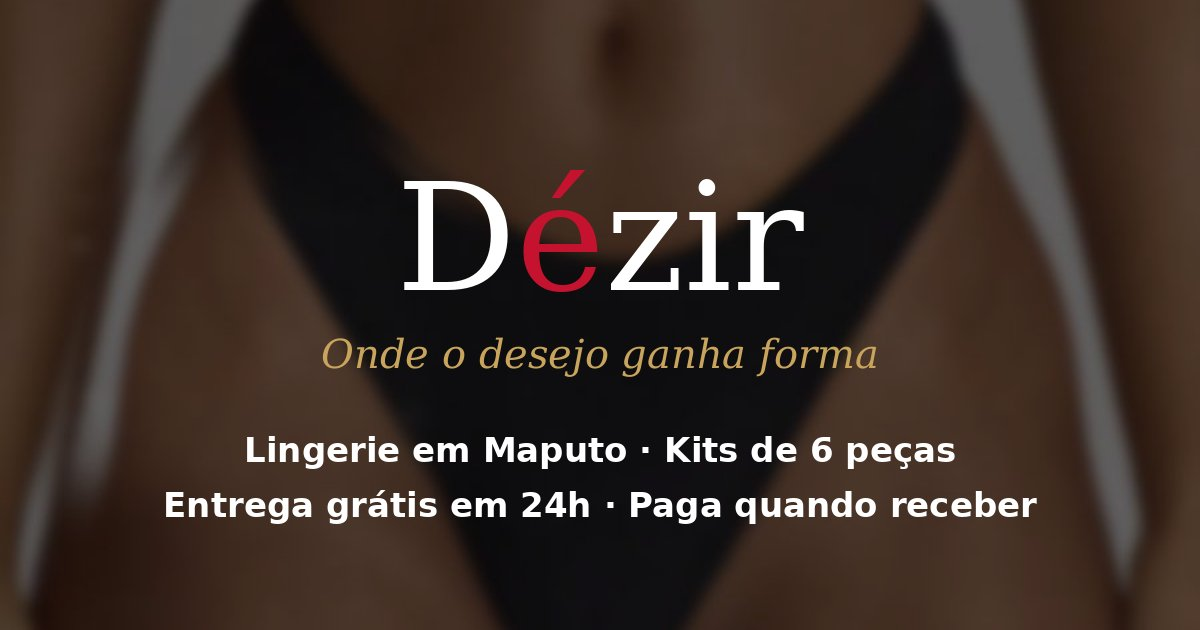
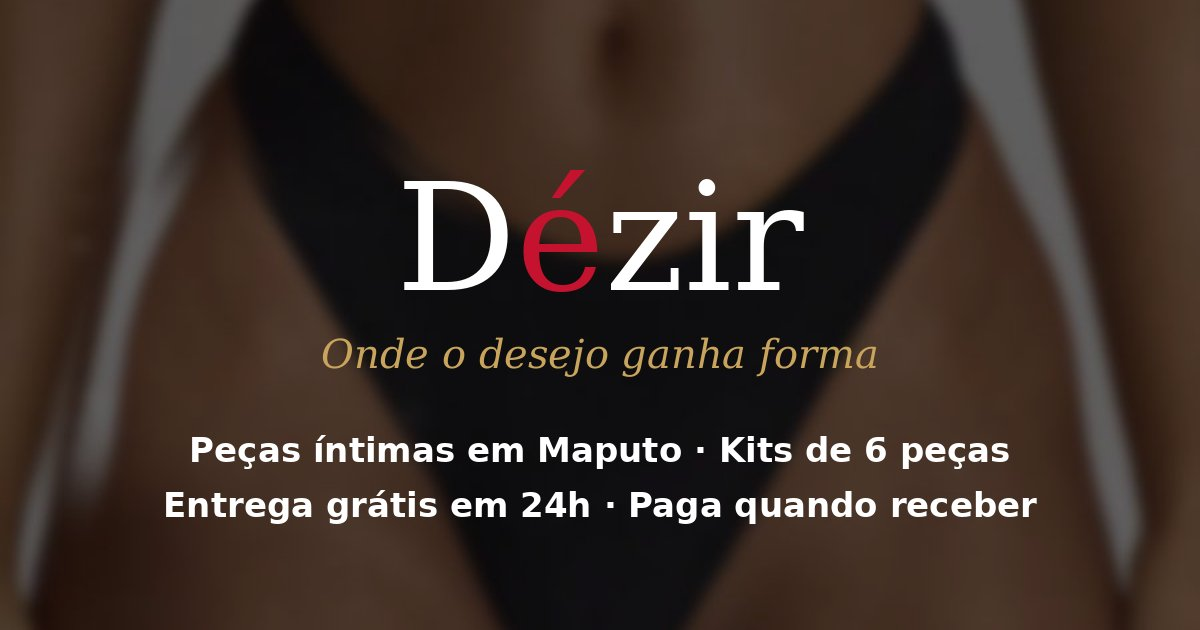
Troca 'lingerie' por 'peças íntimas'
Claude-Session: https://claude.ai/code/session_01158HqcScQpHXWsf6aup7ki

Changed region(s): [[0.1542, 0.6937, 0.8633, 0.754]]

diff --git a/index.html b/index.html
@@ -4,27 +4,27 @@
 <meta charset="utf-8">
 <meta name="viewport" content="width=device-width, initial-scale=1">
 <!-- SEO:INICIO -->
-<title>Dézir — Lingerie em Maputo | Kits de 6 peças com entrega grátis</title>
-<meta name="description" content="Lingerie feminina em Maputo e Matola: boxers e fios em renda e algodão, kits de 6 peças a partir de 700 MT. Entrega grátis em menos de 24h e paga só quando receber.">
-<meta name="keywords" content="lingerie Maputo, calcinhas Maputo, boxer de renda, fio dental, lingerie Matola, roupa íntima Moçambique, Dézir">
+<title>Dézir — Peças íntimas em Maputo | Kits de 6 com entrega grátis</title>
+<meta name="description" content="Peças íntimas femininas em Maputo e Matola: boxers e fios em renda e algodão, kits de 6 peças a partir de 700 MT. Entrega grátis em menos de 24h e paga só quando receber.">
+<meta name="keywords" content="peças íntimas Maputo, calcinhas Maputo, boxer de renda, fio dental, peças íntimas Matola, roupa íntima Moçambique, Dézir">
 <link rel="canonical" href="https://dezir-mz.github.io/">
 <meta name="robots" content="index, follow">
 <meta name="theme-color" content="#0d0b0b">
 <meta property="og:type" content="website">
 <meta property="og:locale" content="pt_MZ">
 <meta property="og:site_name" content="Dézir">
-<meta property="og:title" content="Dézir — Lingerie em Maputo | Kits de 6 peças com entrega grátis">
-<meta property="og:description" content="Lingerie feminina em Maputo e Matola: boxers e fios em renda e algodão, kits de 6 peças a partir de 700 MT. Entrega grátis em menos de 24h e paga só quando receber.">
+<meta property="og:title" content="Dézir — Peças íntimas em Maputo | Kits de 6 com entrega grátis">
+<meta property="og:description" content="Peças íntimas femininas em Maputo e Matola: boxers e fios em renda e algodão, kits de 6 peças a partir de 700 MT. Entrega grátis em menos de 24h e paga só quando receber.">
 <meta property="og:url" content="https://dezir-mz.github.io/">
 <meta property="og:image" content="https://dezir-mz.github.io/og.jpg">
 <meta property="og:image:width" content="1200">
 <meta property="og:image:height" content="630">
-<meta property="og:image:alt" content="Dézir — Onde o desejo ganha forma. Lingerie em Maputo.">
+<meta property="og:image:alt" content="Dézir — Onde o desejo ganha forma. Peças íntimas em Maputo.">
 <meta name="twitter:card" content="summary_large_image">
-<meta name="twitter:title" content="Dézir — Lingerie em Maputo | Kits de 6 peças com entrega grátis">
-<meta name="twitter:description" content="Lingerie feminina em Maputo e Matola: boxers e fios em renda e algodão, kits de 6 peças a partir de 700 MT. Entrega grátis em menos de 24h e paga só quando receber.">
+<meta name="twitter:title" content="Dézir — Peças íntimas em Maputo | Kits de 6 com entrega grátis">
+<meta name="twitter:description" content="Peças íntimas femininas em Maputo e Matola: boxers e fios em renda e algodão, kits de 6 peças a partir de 700 MT. Entrega grátis em menos de 24h e paga só quando receber.">
 <meta name="twitter:image" content="https://dezir-mz.github.io/og.jpg">
-<script type="application/ld+json">{"@context": "https://schema.org", "@graph": [{"@type": "ClothingStore", "@id": "https://dezir-mz.github.io/#loja", "name": "Dézir", "url": "https://dezir-mz.github.io/", "image": "https://dezir-mz.github.io/og.jpg", "slogan": "Onde o desejo ganha forma", "description": "Lingerie feminina em Maputo e Matola: boxers e fios em renda e algodão, kits de 6 peças a partir de 700 MT. Entrega grátis em menos de 24h e paga só quando receber.", "telephone": "+258 87 987 1228", "address": {"@type": "PostalAddress", "addressLocality": "Maputo", "addressCountry": "MZ"}, "areaServed": ["Maputo", "Matola", "Moçambique"], "priceRange": "700–800 MT", "paymentAccepted": "Dinheiro na entrega"}, {"@type": "ItemList", "name": "Peças disponíveis para entrega imediata", "itemListElement": [{"@type": "ListItem", "position": 1, "item": {"@type": "Product", "name": "Kit 6 Boxer Renda Desejo", "description": "Renda floral que veste como uma segunda pele: cintura recortada, toque macio e transparência na medida certa. Confortável no dia a dia, irresistível à noite.", "image": ["https://dezir-mz.github.io/fotos/boxer-2.jpg", "https://dezir-mz.github.io/fotos/boxer-1.jpg"], "brand": {"@type": "Brand", "name": "Dézir"}, "size": ["S", "M", "L"], "offers": {"@type": "Offer", "price": 800, "priceCurrency": "MZN", "availability": "https://schema.org/InStock", "url": "https://dezir-mz.github.io/", "seller": {"@id": "https://dezir-mz.github.io/#loja"}}}}, {"@type": "ListItem", "position": 2, "item": {"@type": "Product", "name": "Kit 6 Fio Algodão Canelado", "description": "Fio dental em algodão canelado, macio e respirável. Confortável e saudável para a sua florzinha, sem marcar a roupa.", "image": ["https://dezir-mz.github.io/fotos/fio-0.jpg", "https://dezir-mz.github.io/fotos/fio-1.jpg", "https://dezir-mz.github.io/fotos/fio-2.jpg", "https://dezir-mz.github.io/fotos/fio-3.jpg", "https://dezir-mz.github.io/fotos/fio-4.jpg"], "brand": {"@type": "Brand", "name": "Dézir"}, "size": ["S", "M", "L"], "offers": {"@type": "Offer", "price": 700, "priceCurrency": "MZN", "availability": "https://schema.org/InStock", "url": "https://dezir-mz.github.io/", "seller": {"@id": "https://dezir-mz.github.io/#loja"}}}}, {"@type": "ListItem", "position": 3, "item": {"@type": "Product", "name": "Kit 6 Fio Renda Laço", "description": "Fio dental em renda floral com laçinhos de cetim nas laterais. Delicado, leve e feito para se sentir bonita em cada detalhe.", "image": ["https://dezir-mz.github.io/fotos/renda-1.jpg", "https://dezir-mz.github.io/fotos/renda-2.jpg", "https://dezir-mz.github.io/fotos/renda-3.jpg"], "brand": {"@type": "Brand", "name": "Dézir"}, "size": ["M"], "offers": {"@type": "Offer", "price": 700, "priceCurrency": "MZN", "availability": "https://schema.org/InStock", "url": "https://dezir-mz.github.io/", "seller": {"@id": "https://dezir-mz.github.io/#loja"}}}}, {"@type": "ListItem", "position": 4, "item": {"@type": "Product", "name": "Kit 6 Fio Renda Ajustável", "description": "Fio dental em renda floral com alças reguláveis dos dois lados: ajusta-se ao seu corpo para um caimento perfeito. Sensual, confortável e sem apertar.", "image": ["https://dezir-mz.github.io/fotos/ajuste-1.jpg", "https://dezir-mz.github.io/fotos/ajuste-3.jpg", "https://dezir-mz.github.io/fotos/ajuste-4.jpg"], "brand": {"@type": "Brand", "name": "Dézir"}, "size": ["S", "M", "L", "XL"], "offers": {"@type": "Offer", "price": 700, "priceCurrency": "MZN", "availability": "https://schema.org/InStock", "url": "https://dezir-mz.github.io/", "seller": {"@id": "https://dezir-mz.github.io/#loja"}}}}, {"@type": "ListItem", "position": 5, "item": {"@type": "Product", "name": "Kit 6 Calcinha Sem Costura Ajustável", "description": "Tecido liso e acetinado, sem costuras, que desaparece debaixo da roupa. Fechos laterais com 2 posições para ajustar à sua medida. Conforto total, zero marcas.", "image": ["https://dezir-mz.github.io/fotos/semcostura-1.jpg", "https://dezir-mz.github.io/fotos/semcostura-2.jpg", "https://dezir-mz.github.io/fotos/semcostura-3.jpg", "https://dezir-mz.github.io/fotos/semcostura-4.jpg"], "brand": {"@type": "Brand", "name": "Dézir"}, "size": ["S", "M", "L", "XL"], "offers": {"@type": "Offer", "price": 750, "priceCurrency": "MZN", "availability": "https://schema.org/InStock", "url": "https://dezir-mz.github.io/", "seller": {"@id": "https://dezir-mz.github.io/#loja"}}}}]}]}</script>
+<script type="application/ld+json">{"@context": "https://schema.org", "@graph": [{"@type": "ClothingStore", "@id": "https://dezir-mz.github.io/#loja", "name": "Dézir", "url": "https://dezir-mz.github.io/", "image": "https://dezir-mz.github.io/og.jpg", "slogan": "Onde o desejo ganha forma", "description": "Peças íntimas femininas em Maputo e Matola: boxers e fios em renda e algodão, kits de 6 peças a partir de 700 MT. Entrega grátis em menos de 24h e paga só quando receber.", "telephone": "+258 87 987 1228", "address": {"@type": "PostalAddress", "addressLocality": "Maputo", "addressCountry": "MZ"}, "areaServed": ["Maputo", "Matola", "Moçambique"], "priceRange": "700–800 MT", "paymentAccepted": "Dinheiro na entrega"}, {"@type": "ItemList", "name": "Peças disponíveis para entrega imediata", "itemListElement": [{"@type": "ListItem", "position": 1, "item": {"@type": "Product", "name": "Kit 6 Boxer Renda Desejo", "description": "Renda floral que veste como uma segunda pele: cintura recortada, toque macio e transparência na medida certa. Confortável no dia a dia, irresistível à noite.", "image": ["https://dezir-mz.github.io/fotos/boxer-2.jpg", "https://dezir-mz.github.io/fotos/boxer-1.jpg"], "brand": {"@type": "Brand", "name": "Dézir"}, "size": ["S", "M", "L"], "offers": {"@type": "Offer", "price": 800, "priceCurrency": "MZN", "availability": "https://schema.org/InStock", "url": "https://dezir-mz.github.io/", "seller": {"@id": "https://dezir-mz.github.io/#loja"}}}}, {"@type": "ListItem", "position": 2, "item": {"@type": "Product", "name": "Kit 6 Fio Algodão Canelado", "description": "Fio dental em algodão canelado, macio e respirável. Confortável e saudável para a sua florzinha, sem marcar a roupa.", "image": ["https://dezir-mz.github.io/fotos/fio-0.jpg", "https://dezir-mz.github.io/fotos/fio-1.jpg", "https://dezir-mz.github.io/fotos/fio-2.jpg", "https://dezir-mz.github.io/fotos/fio-3.jpg", "https://dezir-mz.github.io/fotos/fio-4.jpg"], "brand": {"@type": "Brand", "name": "Dézir"}, "size": ["S", "M", "L"], "offers": {"@type": "Offer", "price": 700, "priceCurrency": "MZN", "availability": "https://schema.org/InStock", "url": "https://dezir-mz.github.io/", "seller": {"@id": "https://dezir-mz.github.io/#loja"}}}}, {"@type": "ListItem", "position": 3, "item": {"@type": "Product", "name": "Kit 6 Fio Renda Laço", "description": "Fio dental em renda floral com laçinhos de cetim nas laterais. Delicado, leve e feito para se sentir bonita em cada detalhe.", "image": ["https://dezir-mz.github.io/fotos/renda-1.jpg", "https://dezir-mz.github.io/fotos/renda-2.jpg", "https://dezir-mz.github.io/fotos/renda-3.jpg"], "brand": {"@type": "Brand", "name": "Dézir"}, "size": ["M"], "offers": {"@type": "Offer", "price": 700, "priceCurrency": "MZN", "availability": "https://schema.org/InStock", "url": "https://dezir-mz.github.io/", "seller": {"@id": "https://dezir-mz.github.io/#loja"}}}}, {"@type": "ListItem", "position": 4, "item": {"@type": "Product", "name": "Kit 6 Fio Renda Ajustável", "description": "Fio dental em renda floral com alças reguláveis dos dois lados: ajusta-se ao seu corpo para um caimento perfeito. Sensual, confortável e sem apertar.", "image": ["https://dezir-mz.github.io/fotos/ajuste-1.jpg", "https://dezir-mz.github.io/fotos/ajuste-3.jpg", "https://dezir-mz.github.io/fotos/ajuste-4.jpg"], "brand": {"@type": "Brand", "name": "Dézir"}, "size": ["S", "M", "L", "XL"], "offers": {"@type": "Offer", "price": 700, "priceCurrency": "MZN", "availability": "https://schema.org/InStock", "url": "https://dezir-mz.github.io/", "seller": {"@id": "https://dezir-mz.github.io/#loja"}}}}, {"@type": "ListItem", "position": 5, "item": {"@type": "Product", "name": "Kit 6 Calcinha Sem Costura Ajustável", "description": "Tecido liso e acetinado, sem costuras, que desaparece debaixo da roupa. Fechos laterais com 2 posições para ajustar à sua medida. Conforto total, zero marcas.", "image": ["https://dezir-mz.github.io/fotos/semcostura-1.jpg", "https://dezir-mz.github.io/fotos/semcostura-2.jpg", "https://dezir-mz.github.io/fotos/semcostura-3.jpg", "https://dezir-mz.github.io/fotos/semcostura-4.jpg"], "brand": {"@type": "Brand", "name": "Dézir"}, "size": ["S", "M", "L", "XL"], "offers": {"@type": "Offer", "price": 750, "priceCurrency": "MZN", "availability": "https://schema.org/InStock", "url": "https://dezir-mz.github.io/", "seller": {"@id": "https://dezir-mz.github.io/#loja"}}}}]}]}</script>
 <!-- SEO:FIM -->
 <link rel="preconnect" href="https://fonts.googleapis.com">
 <link href="https://fonts.googleapis.com/css2?family=Cormorant+Garamond:ital,wght@0,500;1,500&display=swap" rel="stylesheet">
@@ -223,7 +223,7 @@ footer b{font-family:"Cormorant Garamond",Georgia,serif;color:#fff;font-weight:5
 
 <section class="band" id="pecas"><div class="wrap">
   <h2>Disponível agora</h2>
-  <div class="grid" id="track"><article class="card"><div class="pic cover"><img src="fotos/boxer-2.jpg" alt="Kit 6 Boxer Renda Desejo — Dézir lingerie Maputo" loading="lazy"></div><h3>Boxer Renda Desejo</h3><span class="price">800 MT</span><small style="color:var(--gold);font-weight:600">Kit de 6 peças · cores variadas</small><p class="desc">Renda floral que veste como uma segunda pele: cintura recortada, toque macio e transparência na medida certa. Confortável no dia a dia, irresistível à noite.</p><small>Tamanhos: S · M · L</small></article><article class="card"><div class="pic cover"><img src="fotos/fio-0.jpg" alt="Kit 6 Fio Algodão Canelado — Dézir lingerie Maputo" loading="lazy"></div><h3>Fio Algodão Canelado</h3><span class="price">700 MT</span><small style="color:var(--gold);font-weight:600">Kit de 6 peças · cores variadas</small><p class="desc">Fio dental em algodão canelado, macio e respirável. Confortável e saudável para a sua florzinha, sem marcar a roupa.</p><small>Tamanhos: S · M · L</small></article><article class="card"><div class="pic cover"><img src="fotos/renda-1.jpg" alt="Kit 6 Fio Renda Laço — Dézir lingerie Maputo" loading="lazy"></div><h3>Fio Renda Laço</h3><span class="price">700 MT</span><small style="color:var(--gold);font-weight:600">Kit de 6 peças · cores variadas</small><p class="desc">Fio dental em renda floral com laçinhos de cetim nas laterais. Delicado, leve e feito para se sentir bonita em cada detalhe.</p><small>Tamanhos: M</small></article><article class="card"><div class="pic cover"><img src="fotos/ajuste-1.jpg" alt="Kit 6 Fio Renda Ajustável — Dézir lingerie Maputo" loading="lazy"></div><h3>Fio Renda Ajustável</h3><span class="price">700 MT</span><small style="color:var(--gold);font-weight:600">Kit de 6 peças · cores variadas</small><p class="desc">Fio dental em renda floral com alças reguláveis dos dois lados: ajusta-se ao seu corpo para um caimento perfeito. Sensual, confortável e sem apertar.</p><small>Tamanhos: S · M · L · XL</small></article><article class="card"><div class="pic cover"><img src="fotos/semcostura-1.jpg" alt="Kit 6 Calcinha Sem Costura Ajustável — Dézir lingerie Maputo" loading="lazy"></div><h3>Calcinha Sem Costura Ajustável</h3><span class="price">750 MT</span><small style="color:var(--gold);font-weight:600">Kit de 6 peças · cores variadas</small><p class="desc">Tecido liso e acetinado, sem costuras, que desaparece debaixo da roupa. Fechos laterais com 2 posições para ajustar à sua medida. Conforto total, zero marcas.</p><small>Tamanhos: S · M · L · XL</small></article></div><!--/track-->
+  <div class="grid" id="track"><article class="card"><div class="pic cover"><img src="fotos/boxer-2.jpg" alt="Kit 6 Boxer Renda Desejo — Dézir peças íntimas Maputo" loading="lazy"></div><h3>Boxer Renda Desejo</h3><span class="price">800 MT</span><small style="color:var(--gold);font-weight:600">Kit de 6 peças · cores variadas</small><p class="desc">Renda floral que veste como uma segunda pele: cintura recortada, toque macio e transparência na medida certa. Confortável no dia a dia, irresistível à noite.</p><small>Tamanhos: S · M · L</small></article><article class="card"><div class="pic cover"><img src="fotos/fio-0.jpg" alt="Kit 6 Fio Algodão Canelado — Dézir peças íntimas Maputo" loading="lazy"></div><h3>Fio Algodão Canelado</h3><span class="price">700 MT</span><small style="color:var(--gold);font-weight:600">Kit de 6 peças · cores variadas</small><p class="desc">Fio dental em algodão canelado, macio e respirável. Confortável e saudável para a sua florzinha, sem marcar a roupa.</p><small>Tamanhos: S · M · L</small></article><article class="card"><div class="pic cover"><img src="fotos/renda-1.jpg" alt="Kit 6 Fio Renda Laço — Dézir peças íntimas Maputo" loading="lazy"></div><h3>Fio Renda Laço</h3><span class="price">700 MT</span><small style="color:var(--gold);font-weight:600">Kit de 6 peças · cores variadas</small><p class="desc">Fio dental em renda floral com laçinhos de cetim nas laterais. Delicado, leve e feito para se sentir bonita em cada detalhe.</p><small>Tamanhos: M</small></article><article class="card"><div class="pic cover"><img src="fotos/ajuste-1.jpg" alt="Kit 6 Fio Renda Ajustável — Dézir peças íntimas Maputo" loading="lazy"></div><h3>Fio Renda Ajustável</h3><span class="price">700 MT</span><small style="color:var(--gold);font-weight:600">Kit de 6 peças · cores variadas</small><p class="desc">Fio dental em renda floral com alças reguláveis dos dois lados: ajusta-se ao seu corpo para um caimento perfeito. Sensual, confortável e sem apertar.</p><small>Tamanhos: S · M · L · XL</small></article><article class="card"><div class="pic cover"><img src="fotos/semcostura-1.jpg" alt="Kit 6 Calcinha Sem Costura Ajustável — Dézir peças íntimas Maputo" loading="lazy"></div><h3>Calcinha Sem Costura Ajustável</h3><span class="price">750 MT</span><small style="color:var(--gold);font-weight:600">Kit de 6 peças · cores variadas</small><p class="desc">Tecido liso e acetinado, sem costuras, que desaparece debaixo da roupa. Fechos laterais com 2 posições para ajustar à sua medida. Conforto total, zero marcas.</p><small>Tamanhos: S · M · L · XL</small></article></div><!--/track-->
   <p class="msg" id="msg">A carregar as peças…</p>
 </div></section>
 
@@ -251,7 +251,7 @@ footer b{font-family:"Cormorant Garamond",Georgia,serif;color:#fff;font-weight:5
 
 <a class="fab" id="fab" href="#pedido" aria-label="Concluir pedido"><span class="fabtxt"><b>Concluir pedido</b><small id="fabT"></small></span><span class="ball"><svg viewBox="0 0 24 24" width="28" height="28" fill="none" stroke="#fff" stroke-width="1.8" stroke-linecap="round" stroke-linejoin="round"><path d="M3 4h2l2.4 11.2a1.5 1.5 0 0 0 1.5 1.2h8.6a1.5 1.5 0 0 0 1.5-1.1L21 8H6.2"/><circle cx="9.5" cy="20" r="1.3"/><circle cx="17" cy="20" r="1.3"/></svg><i id="fabN">0</i></span></a>
 
-<footer class="band" style="padding-block:28px"><b>Dézir</b><br>Maputo, Moçambique · Pedidos pelo WhatsApp<p class="sobre" style="max-width:60ch;margin:10px auto 0;font-size:13px;line-height:1.5">A Dézir é uma loja de lingerie feminina em Maputo. Vendemos kits de 6 peças — boxers de renda, fios dentais de renda e de algodão e calcinhas sem costura — com entrega grátis em Maputo e Matola em menos de 24 horas e envio para outras províncias. Paga só quando receber.</p></footer>
+<footer class="band" style="padding-block:28px"><b>Dézir</b><br>Maputo, Moçambique · Pedidos pelo WhatsApp<p class="sobre" style="max-width:60ch;margin:10px auto 0;font-size:13px;line-height:1.5">A Dézir é uma loja de peças íntimas femininas em Maputo. Vendemos kits de 6 peças — boxers de renda, fios dentais de renda e de algodão e calcinhas sem costura — com entrega grátis em Maputo e Matola em menos de 24 horas e envio para outras províncias. Paga só quando receber.</p></footer>
 
 <script>
 {
